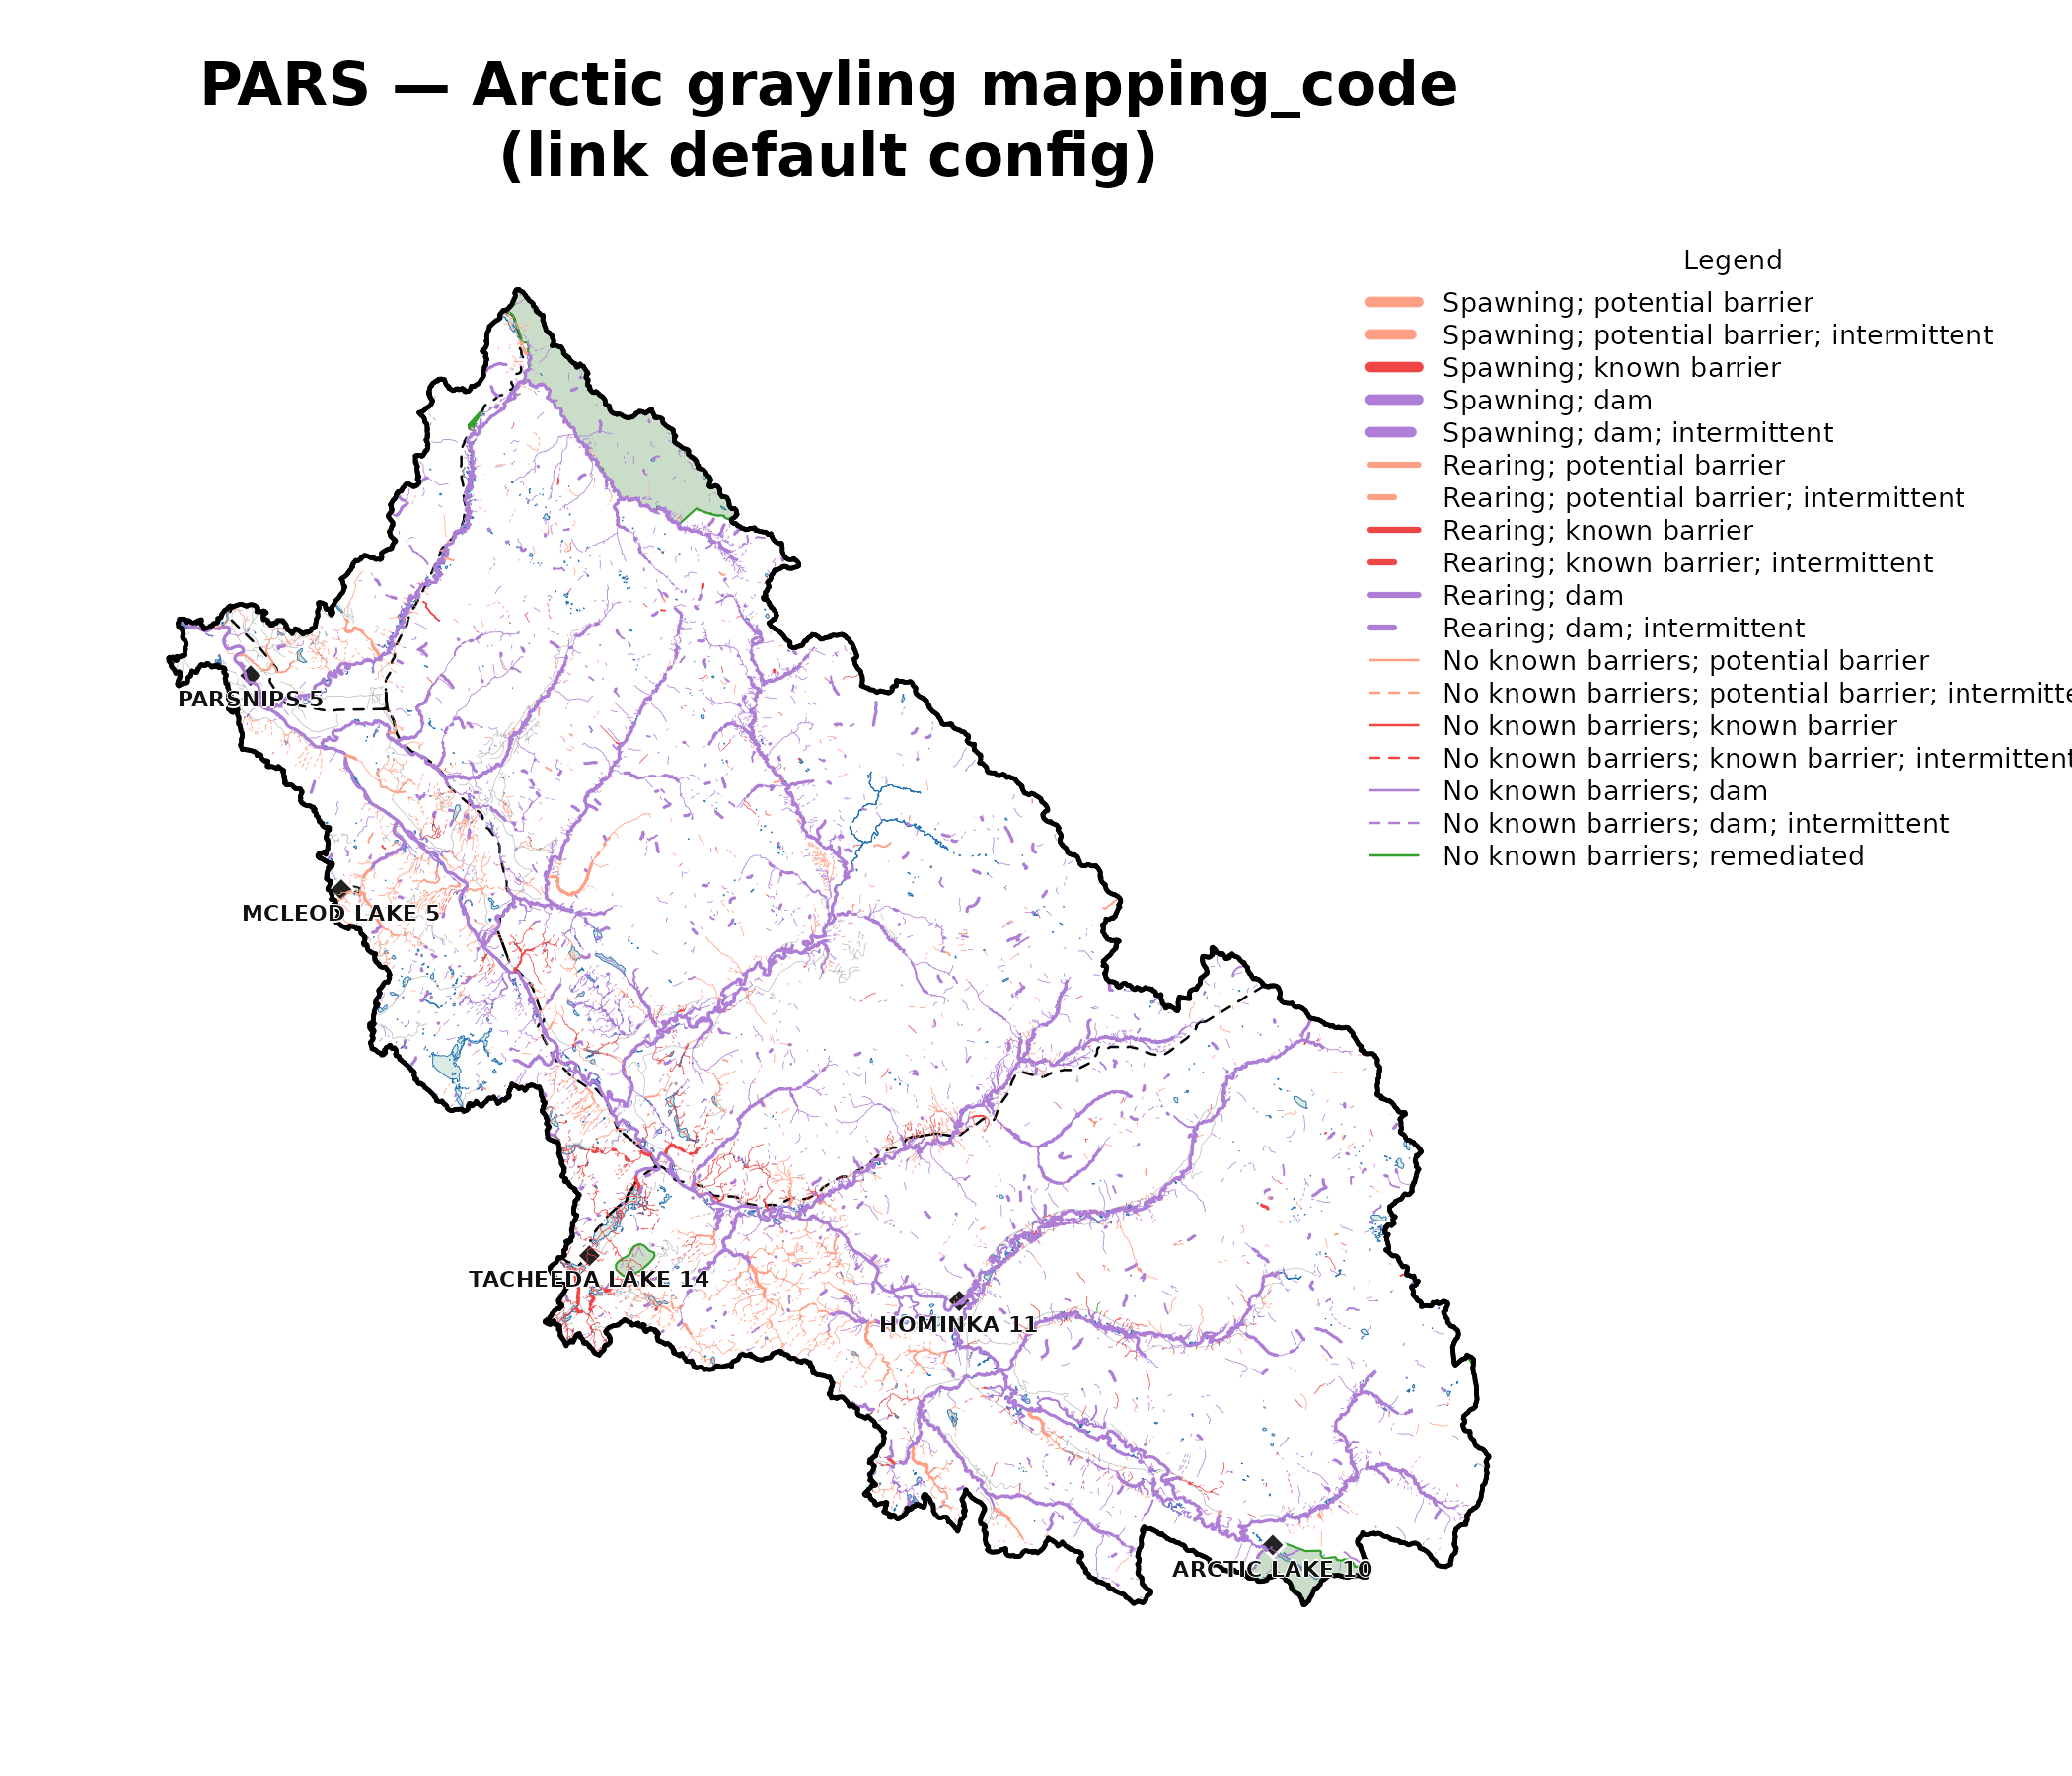
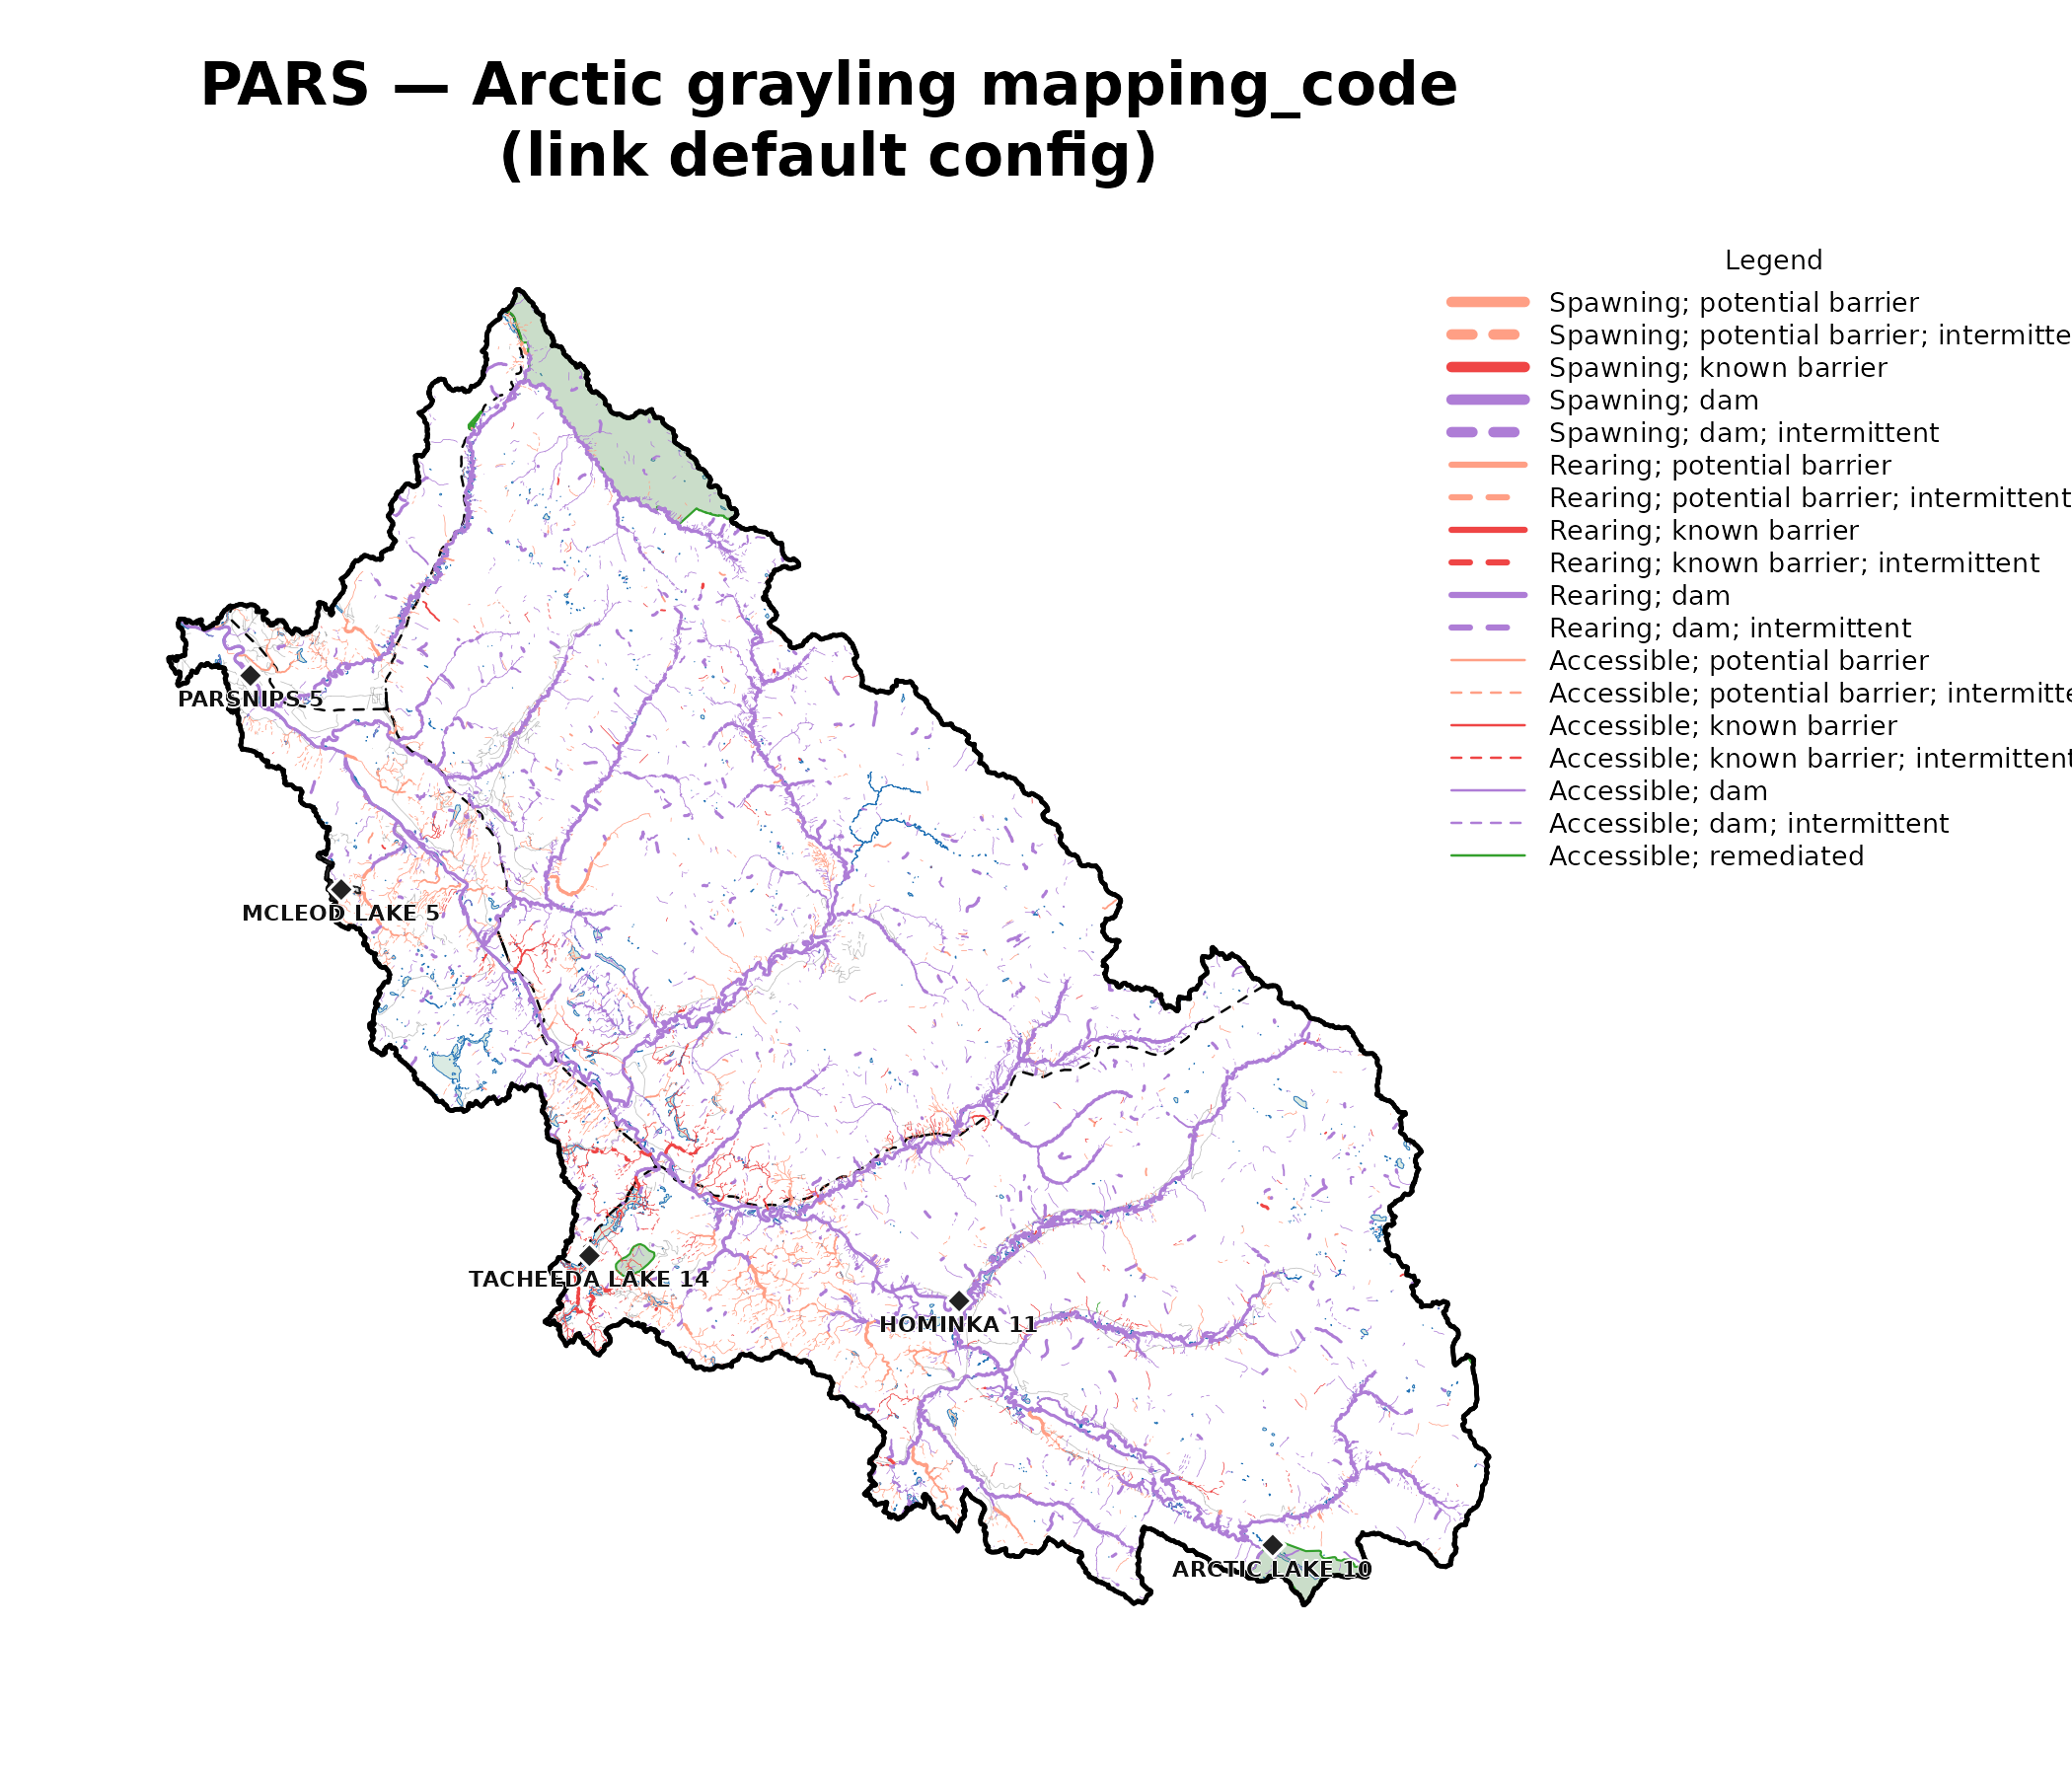
Deploying to gh-pages from @ NewGraphEnvironment/link@bcec2c6a2360c2093e8a4cbcf6364b1bb6c027c8 🚀

Changed region(s): [[0.65, 0.1244, 0.9595, 0.4978]]

diff --git a/articles/pars-habitat-connectivity.html b/articles/pars-habitat-connectivity.html
@@ -64,15 +64,45 @@
 
     
     
-<p>This vignette walks a per-segment habitat <code>mapping_code</code>
-analysis through the Parsnip River Watershed Group (<code>PARS</code>,
-~5,600 km², north-eastern BC) end to end. It does two things. First, it
-shows <code>link</code>’s <code>bcfishpass</code> configuration
-<strong>reproducing</strong> the per-segment <code>mapping_code</code>
-that <a href="https://github.com/smnorris/bcfishpass" class="external-link">bcfishpass</a>
-produces. Second, it shows <code>link</code> <strong>extending</strong>
-that methodology to a species bcfishpass does not yet model in the
-Peace: Arctic grayling (<code>GR</code>).</p>
+<p>For any stream in a watershed, fisheries managers want to know three
+things: can a fish get there, is it good habitat, and what — if anything
+— blocks the way. This vignette runs that analysis end to end for the
+Parsnip River Watershed Group (<code>PARS</code>, ~5,600 km²,
+north-eastern BC).</p>
+<p><code>link</code> models the entire stream network of a watershed
+group one segment at a time, and for each species works out:</p>
+<ul>
+<li>
+<strong>Access</strong> — can the fish reach the segment, or is the
+route downstream likely too steep (gradient), or cut off by a barrier
+such as a dam, waterfall, or perched culvert?</li>
+<li>
+<strong>Habitat</strong> — if it is reachable, is the segment likely
+large enough (channel width) and its gradient gentle enough for the
+modelled species to use it as <strong>spawning</strong> habitat,
+<strong>rearing</strong> habitat, or simply passable water with
+neither?</li>
+<li>
+<strong>Barriers</strong> — the most significant obstacle
+downstream: a <strong>dam</strong>, a <strong>known</strong> barrier
+that has been assessed in the field (a road culvert, weir, etc.), a
+<strong>modelled</strong> crossing (predicted from road–stream
+intersections but not yet field-checked), or one that has since been
+<strong>remediated</strong> (fixed).</li>
+</ul>
+<p>It also flags reaches that are <strong>intermittent</strong>
+(seasonally dry). <a href="https://github.com/smnorris/bcfishpass" class="external-link">bcfishpass</a> condenses
+that whole per-segment verdict into one compact label it calls a
+<code>mapping_code</code> — for example <code>SPAWN;DAM</code>, spawning
+habitat with a dam downstream. <code>link</code> reproduces those same
+labels, and the maps below colour and weight every stream by them.</p>
+<p>The vignette does two things. First, it shows <code>link</code>’s
+<code>bcfishpass</code> configuration <strong>reproducing</strong>
+bcfishpass’s per-segment classification for bull trout (<code>BT</code>)
+— a parity check against the established tool. Second, it shows
+<code>link</code> <strong>extending</strong> the same method to a
+species bcfishpass does not yet model in the Peace: Arctic grayling
+(<code>GR</code>).</p>
 <p>The Parsnip River Watershed Group sits between Prince George and
 Mackenzie, BC. The Parsnip flows north into the southern arm of
 Williston Reservoir, joining the Peace River system; from there the
@@ -95,13 +125,19 @@ stack from Simon Norris (Hillcrest Geographics). What <code>link</code>
 adds is a configuration-driven re-expression of the same modelling: we
 can experiment with different configurations for species bcfishpass
 already models, and extend to species it does not — here, Arctic
-grayling for the <strong>Fish Passage Peace 2025</strong> program —
-while staying byte-checkable against the upstream reference.</p>
+grayling — while staying byte-checkable against the upstream
+reference.</p>
 <div class="section level2">
 <h2 id="modelling-parameters">Modelling parameters<a class="anchor" aria-label="anchor" href="#modelling-parameters"></a>
 </h2>
-<p>Per-segment <code>mapping_code</code> is assembled from access,
-spawning, and rearing classifications. Access is gated by a per-species
+<p>A <code>mapping_code</code> is a per-segment, per-species label that
+bcfishpass computes over the BC Freshwater Atlas (FWA) stream network —
+it is not part of the FWA itself. Producing it means first re-cutting
+the FWA streams into shorter segments wherever a fish’s prospects change
+— at gradient transitions, falls, dams, modelled and assessed crossings,
+and habitat thresholds — then giving each resulting segment its access,
+spawning, and rearing classification. <code>link</code> reproduces that
+segmentation and those classifications. Access is gated by a per-species
 <strong>maximum</strong> gradient; spawning and rearing are then gated
 by their own <strong>maximum</strong> gradients and a minimum channel
 width. The values in force for this run are below.</p>

diff --git a/reference/lnk_stamp.html b/reference/lnk_stamp.html
@@ -135,12 +135,12 @@ report-appendix scope of <a href="https://github.com/NewGraphEnvironment/link/is
 <span class="r-in"><span><span class="va">stamp</span></span></span>
 <span class="r-out co"><span class="r-pr">#&gt;</span> &lt;lnk_stamp&gt; bcfishpass</span>
 <span class="r-out co"><span class="r-pr">#&gt;</span>   aoi:        ADMS</span>
-<span class="r-out co"><span class="r-pr">#&gt;</span>   started:    2026-06-03 21:04:26 UTC</span>
+<span class="r-out co"><span class="r-pr">#&gt;</span>   started:    2026-06-04 08:16:33 UTC</span>
 <span class="r-out co"><span class="r-pr">#&gt;</span>   link:       0.42.0</span>
 <span class="r-out co"><span class="r-pr">#&gt;</span>   fresh:      0.32.0</span>
 <span class="r-out co"><span class="r-pr">#&gt;</span>   provenance: 12 files (0 byte, 0 shape drifted)</span>
 <span class="r-in"><span><span class="fu"><a href="https://rdrr.io/r/base/format.html" class="external-link">format</a></span><span class="op">(</span><span class="va">stamp</span>, <span class="st">"markdown"</span><span class="op">)</span></span></span>
-<span class="r-out co"><span class="r-pr">#&gt;</span> [1] "## Run stamp — bcfishpass\n\n- AOI: `ADMS`\n- Started: 2026-06-03 21:04:26 UTC\n\n### Software\n- link: 0.42.0 (sha NA)\n- fresh: 0.32.0 (sha NA)\n- R: R version 4.6.0 (2026-04-24)\n\n### Config provenance (12 files, 0 byte / 0 shape drifted)\n\n| file | byte drift | shape drift |\n|---|---|---|\n| `rules.yaml` | no | no |\n| `dimensions.csv` | no | no |\n| `parameters_fresh.csv` | no | no |\n| `overrides/user_habitat_classification.csv` | no | no |\n| `overrides/observation_exclusions.csv` | no | no |\n| `overrides/wsg_species_presence.csv` | no | no |\n| `overrides/user_modelled_crossing_fixes.csv` | no | no |\n| `overrides/user_pscis_barrier_status.csv` | no | no |\n| `overrides/pscis_modelledcrossings_streams_xref.csv` | no | no |\n| `overrides/user_barriers_definite.csv` | no | no |\n| `overrides/user_barriers_definite_control.csv` | no | no |\n| `overrides/user_crossings_misc.csv` | no | no |"</span>
+<span class="r-out co"><span class="r-pr">#&gt;</span> [1] "## Run stamp — bcfishpass\n\n- AOI: `ADMS`\n- Started: 2026-06-04 08:16:33 UTC\n\n### Software\n- link: 0.42.0 (sha NA)\n- fresh: 0.32.0 (sha NA)\n- R: R version 4.6.0 (2026-04-24)\n\n### Config provenance (12 files, 0 byte / 0 shape drifted)\n\n| file | byte drift | shape drift |\n|---|---|---|\n| `rules.yaml` | no | no |\n| `dimensions.csv` | no | no |\n| `parameters_fresh.csv` | no | no |\n| `overrides/user_habitat_classification.csv` | no | no |\n| `overrides/observation_exclusions.csv` | no | no |\n| `overrides/wsg_species_presence.csv` | no | no |\n| `overrides/user_modelled_crossing_fixes.csv` | no | no |\n| `overrides/user_pscis_barrier_status.csv` | no | no |\n| `overrides/pscis_modelledcrossings_streams_xref.csv` | no | no |\n| `overrides/user_barriers_definite.csv` | no | no |\n| `overrides/user_barriers_definite_control.csv` | no | no |\n| `overrides/user_crossings_misc.csv` | no | no |"</span>
 <span class="r-in"><span></span></span>
 <span class="r-in"><span><span class="kw">if</span> <span class="op">(</span><span class="cn">FALSE</span><span class="op">)</span> <span class="op">{</span> <span class="co"># \dontrun{</span></span></span>
 <span class="r-in"><span><span class="co"># Full workflow with DB and a result</span></span></span>

diff --git a/articles/pars-habitat-connectivity.md b/articles/pars-habitat-connectivity.md
@@ -1,13 +1,38 @@
 # Bull trout and Arctic grayling: habitat and connectivity classification for the Parsnip River Watershed Group
 
-This vignette walks a per-segment habitat `mapping_code` analysis
-through the Parsnip River Watershed Group (`PARS`, ~5,600 km²,
-north-eastern BC) end to end. It does two things. First, it shows
-`link`’s `bcfishpass` configuration **reproducing** the per-segment
-`mapping_code` that [bcfishpass](https://github.com/smnorris/bcfishpass)
-produces. Second, it shows `link` **extending** that methodology to a
-species bcfishpass does not yet model in the Peace: Arctic grayling
-(`GR`).
+For any stream in a watershed, fisheries managers want to know three
+things: can a fish get there, is it good habitat, and what — if anything
+— blocks the way. This vignette runs that analysis end to end for the
+Parsnip River Watershed Group (`PARS`, ~5,600 km², north-eastern BC).
+
+`link` models the entire stream network of a watershed group one segment
+at a time, and for each species works out:
+
+- **Access** — can the fish reach the segment, or is the route
+  downstream likely too steep (gradient), or cut off by a barrier such
+  as a dam, waterfall, or perched culvert?
+- **Habitat** — if it is reachable, is the segment likely large enough
+  (channel width) and its gradient gentle enough for the modelled
+  species to use it as **spawning** habitat, **rearing** habitat, or
+  simply passable water with neither?
+- **Barriers** — the most significant obstacle downstream: a **dam**, a
+  **known** barrier that has been assessed in the field (a road culvert,
+  weir, etc.), a **modelled** crossing (predicted from road–stream
+  intersections but not yet field-checked), or one that has since been
+  **remediated** (fixed).
+
+It also flags reaches that are **intermittent** (seasonally dry).
+[bcfishpass](https://github.com/smnorris/bcfishpass) condenses that
+whole per-segment verdict into one compact label it calls a
+`mapping_code` — for example `SPAWN;DAM`, spawning habitat with a dam
+downstream. `link` reproduces those same labels, and the maps below
+colour and weight every stream by them.
+
+The vignette does two things. First, it shows `link`’s `bcfishpass`
+configuration **reproducing** bcfishpass’s per-segment classification
+for bull trout (`BT`) — a parity check against the established tool.
+Second, it shows `link` **extending** the same method to a species
+bcfishpass does not yet model in the Peace: Arctic grayling (`GR`).
 
 The Parsnip River Watershed Group sits between Prince George and
 Mackenzie, BC. The Parsnip flows north into the southern arm of
@@ -31,17 +56,22 @@ and up) clear-water reaches and spawn over fine gravels.
 Norris (Hillcrest Geographics). What `link` adds is a
 configuration-driven re-expression of the same modelling: we can
 experiment with different configurations for species bcfishpass already
-models, and extend to species it does not — here, Arctic grayling for
-the **Fish Passage Peace 2025** program — while staying byte-checkable
-against the upstream reference.
+models, and extend to species it does not — here, Arctic grayling —
+while staying byte-checkable against the upstream reference.
 
 ## Modelling parameters
 
-Per-segment `mapping_code` is assembled from access, spawning, and
-rearing classifications. Access is gated by a per-species **maximum**
-gradient; spawning and rearing are then gated by their own **maximum**
-gradients and a minimum channel width. The values in force for this run
-are below.
+A `mapping_code` is a per-segment, per-species label that bcfishpass
+computes over the BC Freshwater Atlas (FWA) stream network — it is not
+part of the FWA itself. Producing it means first re-cutting the FWA
+streams into shorter segments wherever a fish’s prospects change — at
+gradient transitions, falls, dams, modelled and assessed crossings, and
+habitat thresholds — then giving each resulting segment its access,
+spawning, and rearing classification. `link` reproduces that
+segmentation and those classifications. Access is gated by a per-species
+**maximum** gradient; spawning and rearing are then gated by their own
+**maximum** gradients and a minimum channel width. The values in force
+for this run are below.
 
 | species | configuration | access grad max | spawn grad max | rear grad max | spawn CW min (m) | rear CW min (m) |
 |:---|:---|---:|---:|---:|---:|---:|

diff --git a/reference/lnk_stamp.md b/reference/lnk_stamp.md
@@ -103,12 +103,12 @@ stamp <- lnk_stamp(cfg, aoi = "ADMS")
 stamp
 #> <lnk_stamp> bcfishpass
 #>   aoi:        ADMS
-#>   started:    2026-06-03 21:04:26 UTC
+#>   started:    2026-06-04 08:16:33 UTC
 #>   link:       0.42.0
 #>   fresh:      0.32.0
 #>   provenance: 12 files (0 byte, 0 shape drifted)
 format(stamp, "markdown")
-#> [1] "## Run stamp — bcfishpass\n\n- AOI: `ADMS`\n- Started: 2026-06-03 21:04:26 UTC\n\n### Software\n- link: 0.42.0 (sha NA)\n- fresh: 0.32.0 (sha NA)\n- R: R version 4.6.0 (2026-04-24)\n\n### Config provenance (12 files, 0 byte / 0 shape drifted)\n\n| file | byte drift | shape drift |\n|---|---|---|\n| `rules.yaml` | no | no |\n| `dimensions.csv` | no | no |\n| `parameters_fresh.csv` | no | no |\n| `overrides/user_habitat_classification.csv` | no | no |\n| `overrides/observation_exclusions.csv` | no | no |\n| `overrides/wsg_species_presence.csv` | no | no |\n| `overrides/user_modelled_crossing_fixes.csv` | no | no |\n| `overrides/user_pscis_barrier_status.csv` | no | no |\n| `overrides/pscis_modelledcrossings_streams_xref.csv` | no | no |\n| `overrides/user_barriers_definite.csv` | no | no |\n| `overrides/user_barriers_definite_control.csv` | no | no |\n| `overrides/user_crossings_misc.csv` | no | no |"
+#> [1] "## Run stamp — bcfishpass\n\n- AOI: `ADMS`\n- Started: 2026-06-04 08:16:33 UTC\n\n### Software\n- link: 0.42.0 (sha NA)\n- fresh: 0.32.0 (sha NA)\n- R: R version 4.6.0 (2026-04-24)\n\n### Config provenance (12 files, 0 byte / 0 shape drifted)\n\n| file | byte drift | shape drift |\n|---|---|---|\n| `rules.yaml` | no | no |\n| `dimensions.csv` | no | no |\n| `parameters_fresh.csv` | no | no |\n| `overrides/user_habitat_classification.csv` | no | no |\n| `overrides/observation_exclusions.csv` | no | no |\n| `overrides/wsg_species_presence.csv` | no | no |\n| `overrides/user_modelled_crossing_fixes.csv` | no | no |\n| `overrides/user_pscis_barrier_status.csv` | no | no |\n| `overrides/pscis_modelledcrossings_streams_xref.csv` | no | no |\n| `overrides/user_barriers_definite.csv` | no | no |\n| `overrides/user_barriers_definite_control.csv` | no | no |\n| `overrides/user_crossings_misc.csv` | no | no |"
 
 if (FALSE) { # \dontrun{
 # Full workflow with DB and a result